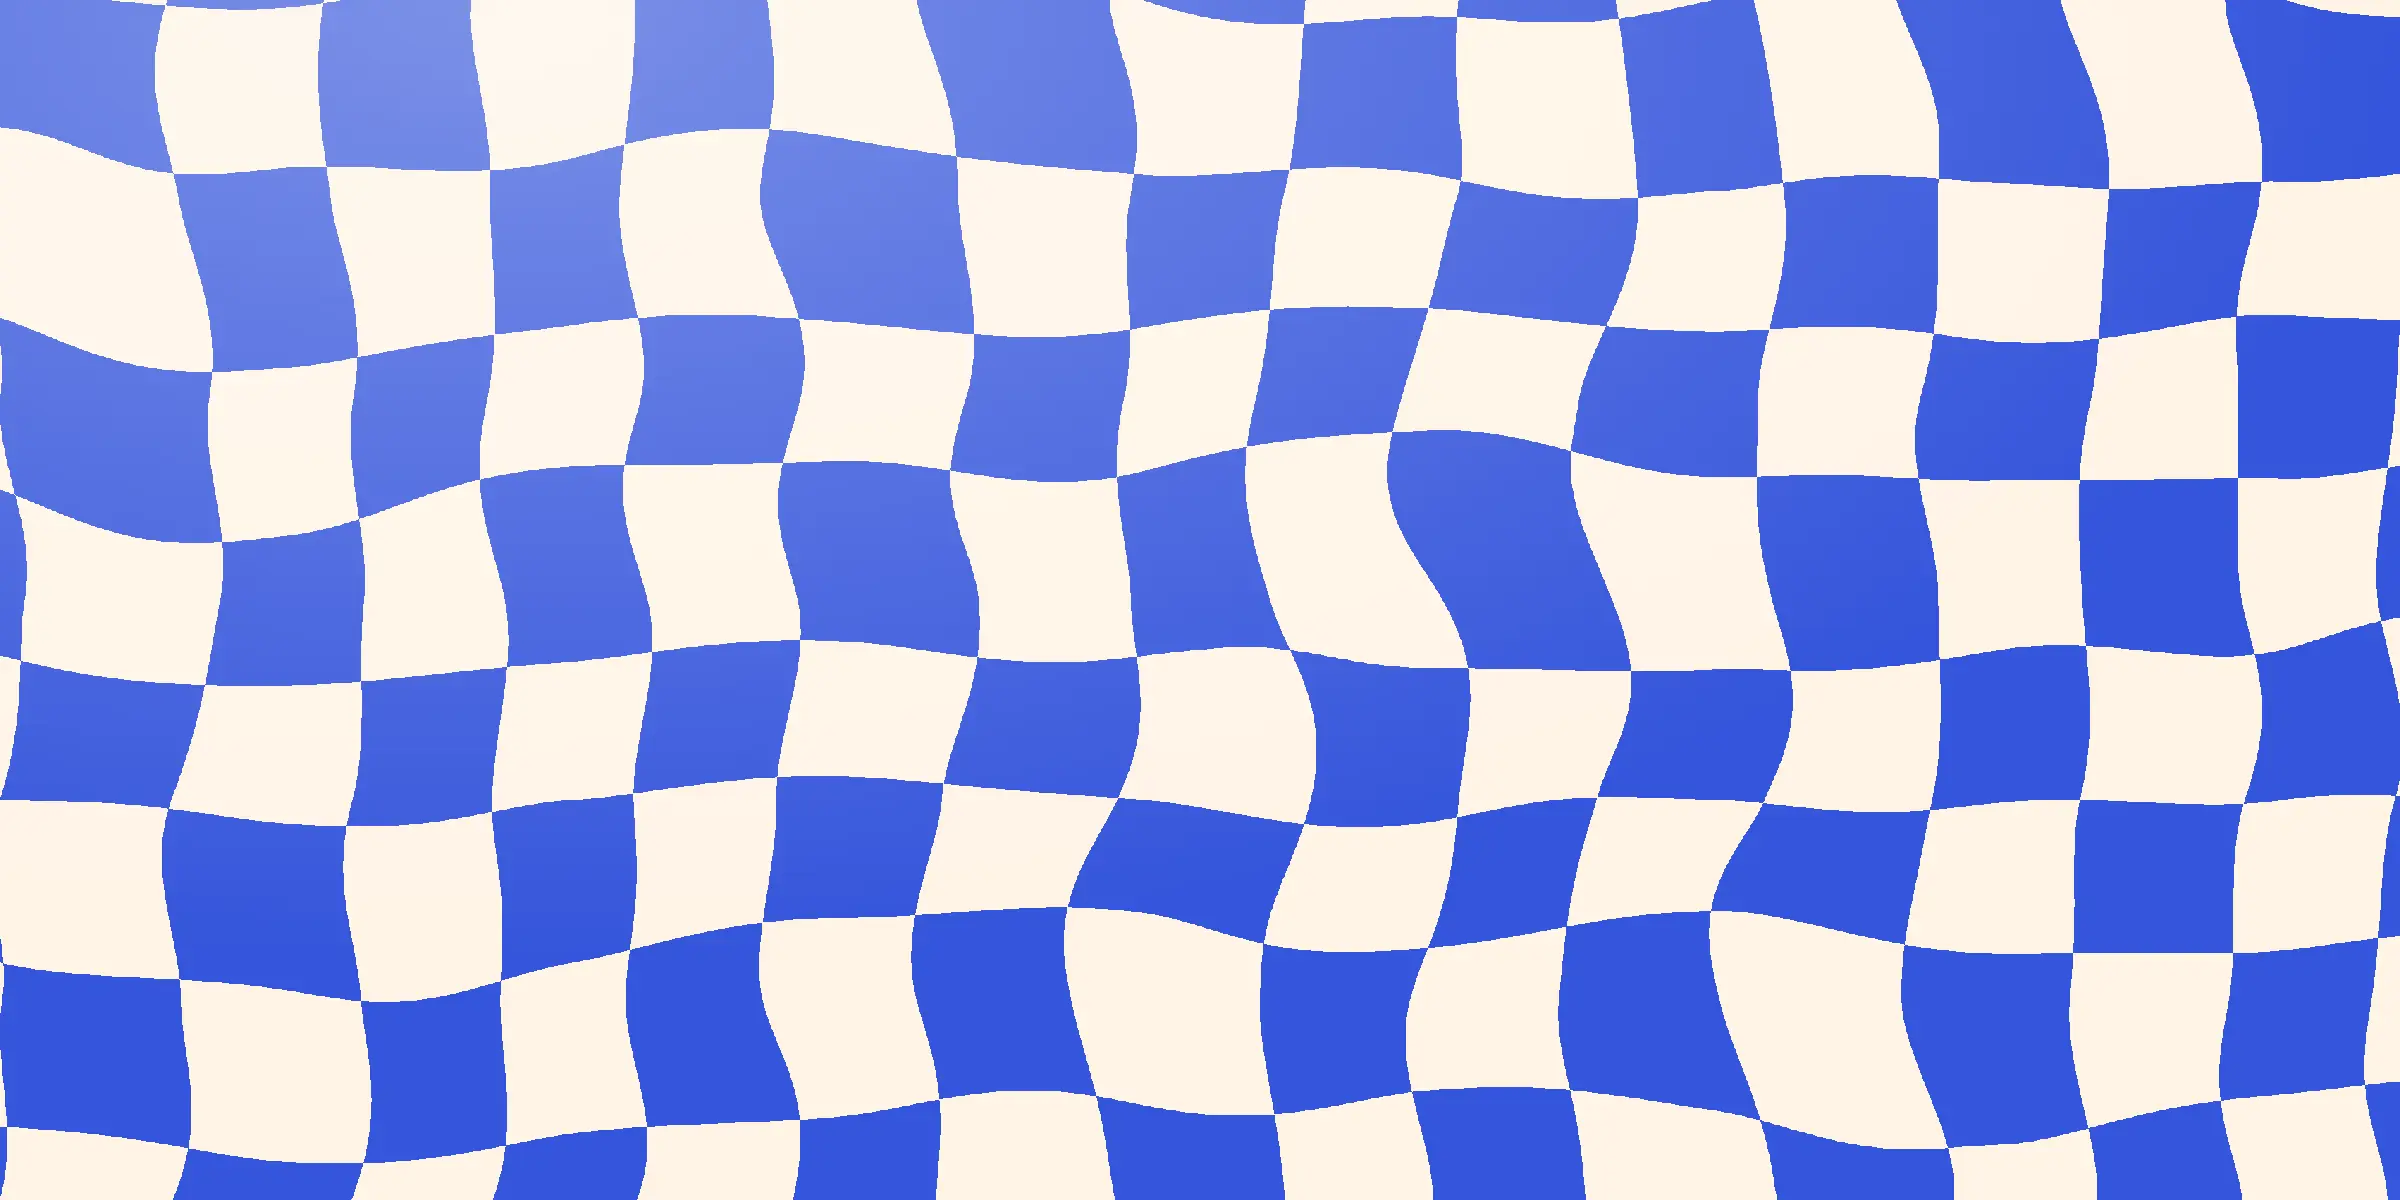
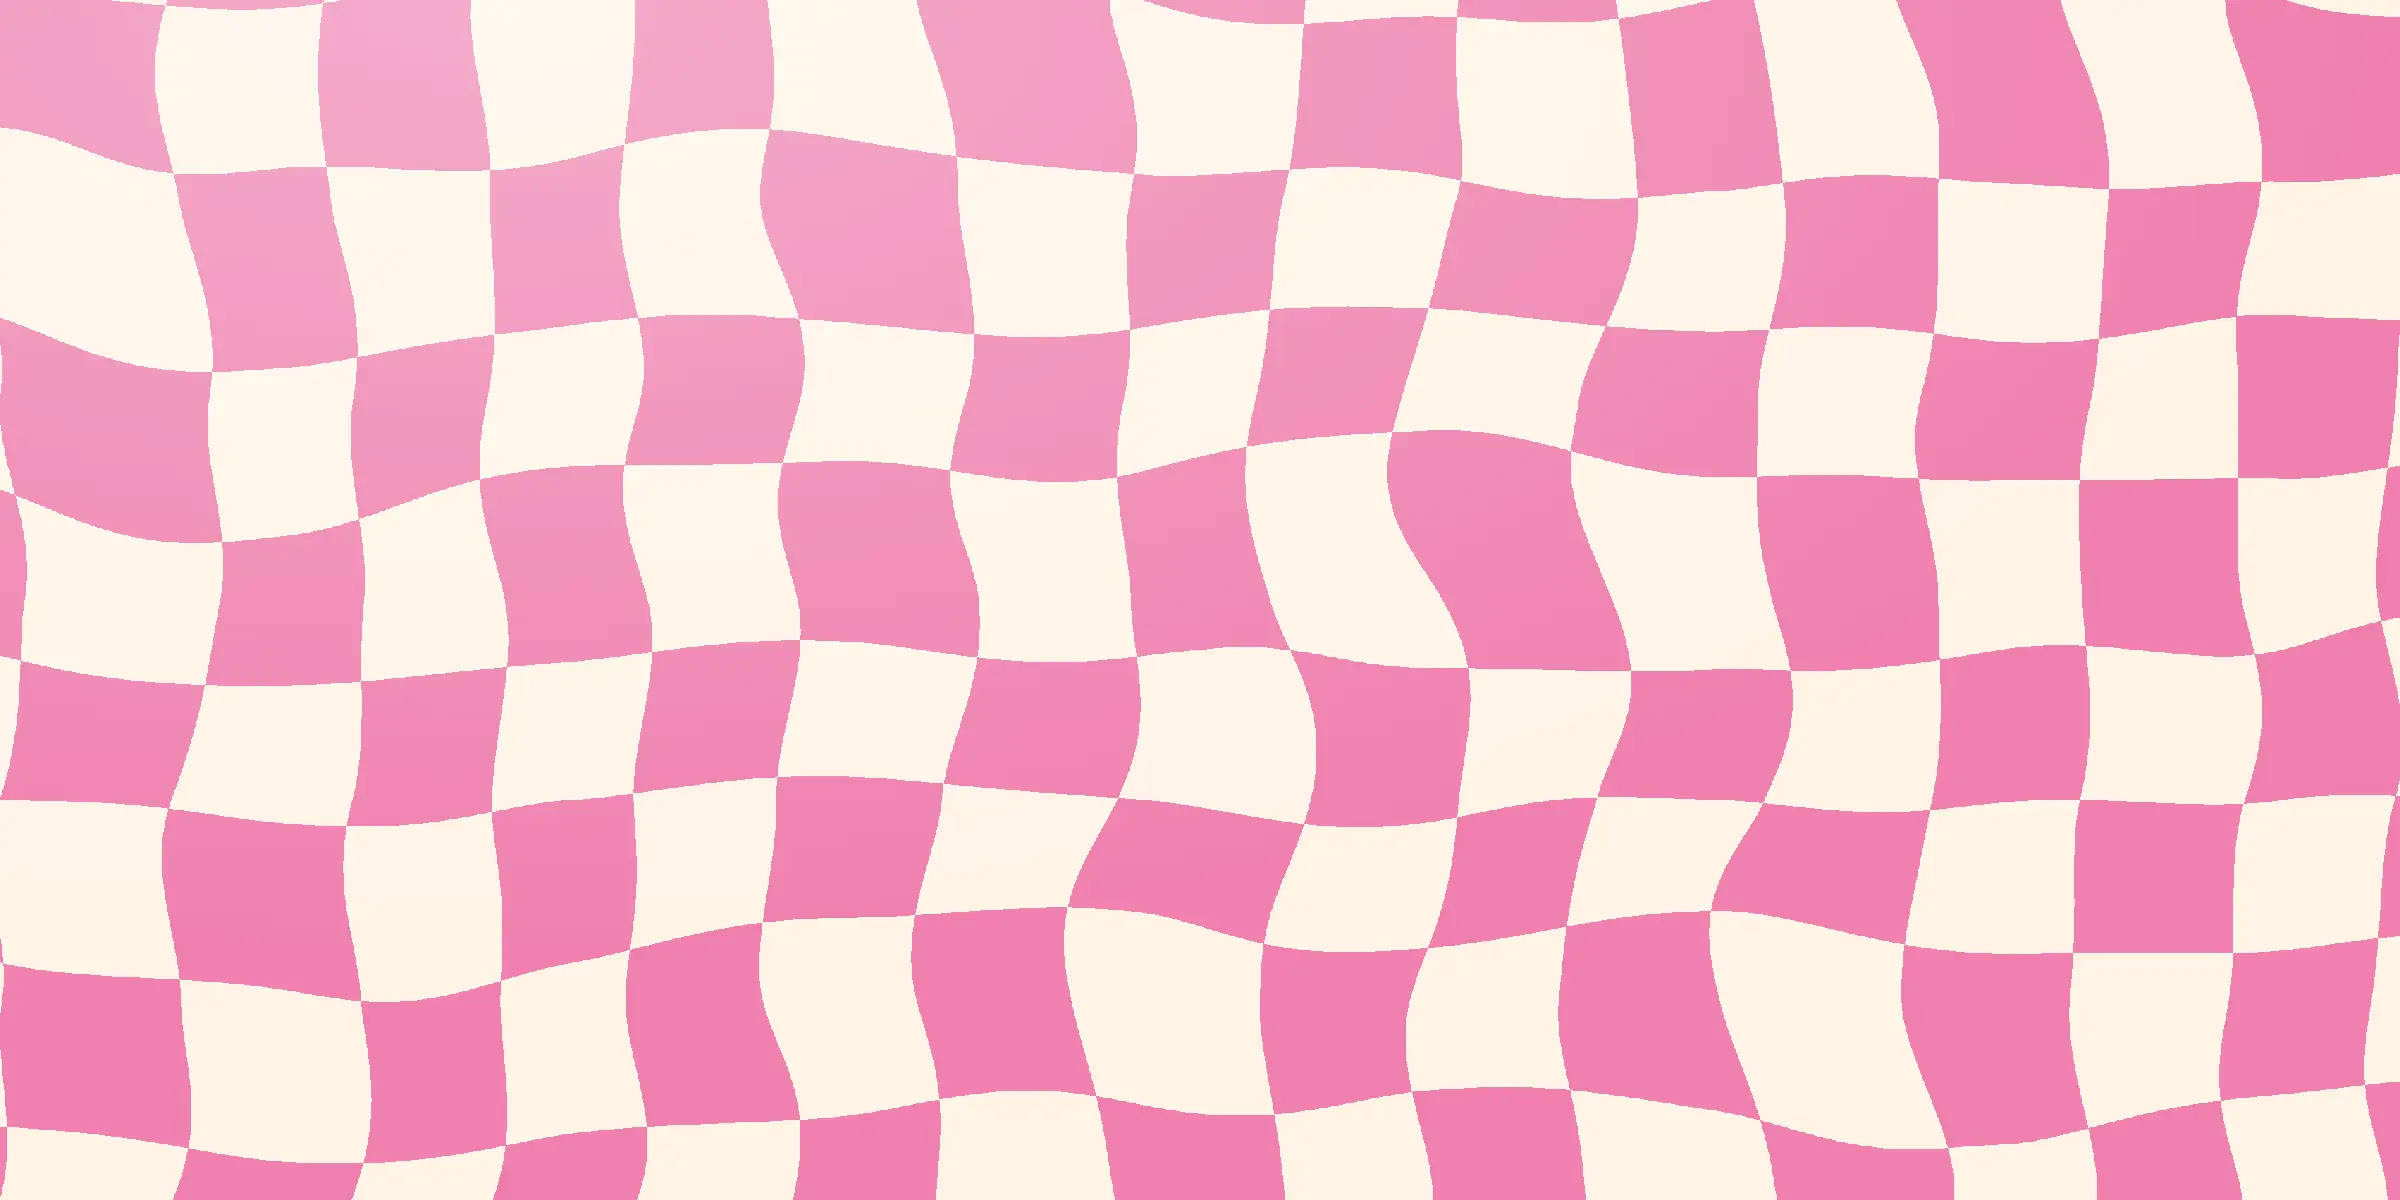
Pared rosa, cajas sólidas, ramo con follaje y vista previa para WhatsApp
- Pared de cuadros rosa y crema (elegida entre 4 opciones); el mostrador
  amarillo se mantiene. La franja verde del medio ahora es la cubierta de
  madera del mostrador.
- Cajas sólidas con tablas; ramilletes con tallos que entran en la caja.
- Ramo: tallos más gruesos con hojas y eucalipto de fondo.
- Exportar: carga con flor girando y botones que aparecen listos; en PC,
  vista previa al lado de los botones (sin scroll). Link en su propia
  línea en la imagen y en el texto al compartir.
- Open Graph (título, descripción e imagen 1200x630) para que WhatsApp y
  redes muestren una vista previa correcta del link.

diff --git a/src/app/globals.css b/src/app/globals.css
@@ -488,3 +488,74 @@ a { color: inherit; text-decoration: none; }
   .bunch, .crate, .badge { transition: transform .2s ease; }
   .item:hover .bunch, .item:hover .crate, .item:hover .badge { transform: translateY(-6px); }
 }
+
+/* =========================================================
+   v2 visual: paleta de fondo más armónica, cajas sólidas,
+   ramilletes con tallo, follaje en el ramo
+   ========================================================= */
+/* Cajas sólidas: tablas horizontales + ranuras, sin transparencias */
+.crate {
+  -webkit-mask: none; mask: none; border: 0; border-radius: 6px; height: 48px;
+  background:
+    linear-gradient(rgba(0, 0, 0, .18), rgba(0, 0, 0, .18)) top / 100% 5px no-repeat,
+    repeating-linear-gradient(180deg, transparent 0 13px, rgba(0, 0, 0, .16) 13px 15px),
+    repeating-linear-gradient(90deg, var(--c) 0 14px, color-mix(in srgb, var(--c) 78%, #000) 14px 16px);
+  box-shadow: inset 0 3px 0 rgba(255, 255, 255, .35), 0 5px 0 rgba(31, 26, 58, .15);
+}
+/* Ramillete: flores con tallos que entran en la caja */
+.bunch { width: 100px; height: 96px; margin-bottom: -34px; }
+.bunch-svg { position: absolute; inset: 0; width: 100%; height: 100%; }
+
+/* Tallos del ramo: más gruesos y con dos hojas */
+.stalk { left: -2.5px; width: 5px; background: linear-gradient(90deg, #3f8a35, #5aa646 60%, #3f8a35); }
+.stalk::after { width: 22px; height: 10px; top: 52%; }
+.stalk::before {
+  content: ""; position: absolute; right: 3px; top: 32%; width: 18px; height: 8px;
+  border-radius: 100% 0 100% 0; background: #4f9a3d; transform: rotate(25deg);
+}
+/* Follaje de eucalipto detrás de las flores */
+.sprig { position: absolute; left: 0; bottom: 0; width: 60px; transform: translateX(-50%) rotate(var(--a)); transform-origin: 50% 100%; z-index: 0; }
+
+/* ---------- Exportar: carga más clara ---------- */
+.share-wait { display: grid; place-items: center; gap: 12px; }
+.share-wait .spin { width: 54px; height: 54px; animation: spin 1.4s linear infinite; }
+@keyframes spin { to { transform: rotate(360deg); } }
+.share-preview.loading {
+  background: linear-gradient(110deg, rgba(255, 255, 255, .35) 30%, rgba(255, 255, 255, .75) 50%, rgba(255, 255, 255, .35) 70%) 0 0 / 300% 100%;
+  animation: shimmer 1.6s ease-in-out infinite;
+}
+@keyframes shimmer { from { background-position: 100% 0; } to { background-position: -100% 0; } }
+
+/* Tarjeta exportada: link en su propia línea */
+.sc-ticket { gap: 2px; }
+.sc-cta { font-size: 30px; font-weight: 500; }
+.sc-url { display: block; font-size: 40px; }
+/* Modal de exportar: en escritorio, vista previa a la izquierda y botones a la derecha (sin scroll) */
+@media (min-width: 900px) {
+  .share-modal { width: min(780px, 100%); }
+  .share-body { display: grid; grid-template-columns: minmax(0, 1fr) minmax(0, 1fr); gap: 24px; align-items: center; }
+  .share-body .share-preview { max-height: 62vh; width: 100%; margin: 0; }
+}
+.btn-skeleton {
+  display: block; height: 48px; border-radius: 999px;
+  background: linear-gradient(110deg, rgba(255, 255, 255, .35) 30%, rgba(255, 255, 255, .75) 50%, rgba(255, 255, 255, .35) 70%) 0 0 / 300% 100%;
+  animation: shimmer 1.6s ease-in-out infinite;
+}
+.share-actions .btn { animation: pop .3s ease-out; }
+
+/* Pared rosa (elegida en lugar del azul) */
+:root { --wall: #ef7fae; }
+.wall { background-color: var(--wall); }
+.sc-wall { background: conic-gradient(var(--wall) 25%, var(--cream) 0 50%, var(--wall) 0 75%, var(--cream) 0) 0 0 / 150px 150px; }
+
+/* La franja entre la pared y el mostrador ahora es la cubierta del mostrador
+   (madera clara vista en perspectiva) en lugar de azulejos verdes que no se entendían */
+.backsplash {
+  border-bottom: 12px solid #e0a64a;
+  background:
+    linear-gradient(180deg, rgba(120, 60, 20, .28), transparent 22px),      /* sombra de la pared sobre la mesa */
+    repeating-linear-gradient(90deg, transparent 0 140px, rgba(150, 90, 40, .10) 140px 142px), /* uniones de tablas */
+    repeating-linear-gradient(180deg, rgba(255, 255, 255, .0) 0 9px, rgba(190, 120, 50, .08) 9px 11px), /* veta */
+    linear-gradient(180deg, #f2cf96, #f7dcae);
+  box-shadow: 0 6px 0 rgba(31, 26, 58, .08);
+}

diff --git a/src/components/ShareModal.tsx b/src/components/ShareModal.tsx
@@ -3,6 +3,7 @@ import { useEffect, useRef, useState } from 'react';
 import { createPortal } from 'react-dom';
 import { canCopyImage, canShareFile, copyImage, download, fileFrom, renderPng, shareText } from '@/lib/share';
 import { Modal } from './Modal';
+import { FlowerHead } from './FlowerHead';
 import { ShareCard, type ShareData } from './ShareCard';
 
 type Status = 'idle' | 'working' | 'ready' | 'error';
@@ -70,21 +71,37 @@ export function ShareModal({ open, data, onClose }: { open: boolean; data: Share
       <h2 id="share-title">Exporta tu ramo</h2>
       <p className="sub">Guárdalo como imagen o compártelo donde quieras.</p>
 
-      <div className="share-preview">
-        {status === 'working' && <p className="share-wait">Preparando tu imagen…</p>}
+      <div className="share-body">
+      <div className={`share-preview ${status === 'working' ? 'loading' : ''}`}>
+        {status === 'working' && (
+          <div className="share-wait" role="status">
+            <FlowerHead id="margarita" className="spin" />
+            <span>Preparando tu imagen…</span>
+          </div>
+        )}
         {status === 'error' && <p className="share-wait">No pudimos crear la imagen. Intenta de nuevo.</p>}
         {status === 'ready' && preview && <img src={preview} alt="Vista previa de tu ramo" />}
       </div>
+      <div>
 
-      <div className="share-actions">
-        {nativeShare && <button className="btn wide send-btn" onClick={share} disabled={status !== 'ready'}>Compartir…</button>}
-        <button className={`btn wide ${nativeShare ? 'alt' : 'send-btn'}`} onClick={save} disabled={status !== 'ready'}>Descargar PNG</button>
-        <div className="share-row">
-          {copyOk && <button className="btn alt" onClick={copy} disabled={status !== 'ready'}>Copiar imagen</button>}
-          {!nativeShare && <button className="btn alt whatsapp" onClick={whatsapp} disabled={status !== 'ready'}>WhatsApp</button>}
+      {/* Los botones aparecen cuando ya sabemos qué soporta el dispositivo: así no "saltan" de color. */}
+      {status === 'ready' ? (
+        <div className="share-actions">
+          {nativeShare && <button className="btn wide send-btn" onClick={share}>Compartir…</button>}
+          <button className={`btn wide ${nativeShare ? 'alt' : 'send-btn'}`} onClick={save}>Descargar PNG</button>
+          <div className="share-row">
+            {copyOk && <button className="btn alt" onClick={copy}>Copiar imagen</button>}
+            {!nativeShare && <button className="btn alt whatsapp" onClick={whatsapp}>WhatsApp</button>}
+          </div>
         </div>
-      </div>
+      ) : (
+        <div className="share-actions" aria-hidden="true">
+          <span className="btn-skeleton" /><span className="btn-skeleton" /><span className="btn-skeleton" />
+        </div>
+      )}
       <p className="share-msg" role="status">{msg}</p>
+      </div>
+      </div>
 
       {open && data && createPortal(<ShareCard data={data} innerRef={cardRef} />, document.body)}
     </Modal>

diff --git a/src/components/Bouquet.tsx b/src/components/Bouquet.tsx
@@ -33,6 +33,24 @@ function StemView({ stem, i, isNew }: { stem: Omit<Stem, 'key'>; i: number; isNe
   );
 }
 
+// Follaje (eucalipto) detrás de las flores: el ramo se ve lleno aunque tenga 1 o 2 tallos.
+const SPRIGS = [
+  { a: -30, L: 250 }, { a: 26, L: 240 }, { a: -12, L: 272 }, { a: 38, L: 215 }, { a: 8, L: 262 }, { a: -40, L: 210 },
+];
+function Sprig({ a, L }: { a: number; L: number }) {
+  const leaves = [];
+  for (let t = 0.5, i = 0; t < 0.99; t += 0.075, i++) {
+    const y = L * (1 - t), side = i % 2 ? 1 : -1;
+    leaves.push(<ellipse key={i} cx={30 + side * 9} cy={y} rx={11 - t * 3} ry={8.5 - t * 2} fill={i % 3 ? '#6fa88d' : '#5b977b'} transform={`rotate(${side * 25} ${30 + side * 9} ${y})`} />);
+  }
+  return (
+    <svg className="sprig" style={{ '--a': `${a}deg`, height: L } as CSSProperties} viewBox={`0 0 60 ${L}`} aria-hidden="true">
+      <path d={`M30 ${L}Q27 ${L / 2} 30 6`} stroke="#4e8a6c" strokeWidth="3" fill="none" strokeLinecap="round" />
+      {leaves}
+    </svg>
+  );
+}
+
 export function NoteCard({ note }: { note: Note }) {
   return (
     <div className="note-card">
@@ -62,6 +80,7 @@ export function Bouquet({
         <path d="M18 34 140 0l122 26-110 152h-24Z" fill="#b39cf5" />
       </svg>
       <div className="stems">
+        {stems.length > 0 && SPRIGS.slice(0, Math.min(SPRIGS.length, 2 + Math.ceil(stems.length / 2))).map((s, i) => <Sprig key={i} {...s} />)}
         {stems.map((s, i) => <StemView key={s.key ?? i} stem={s} i={i} isNew={!!newestKey && s.key === newestKey} />)}
       </div>
       {note && <div className="tucked"><NoteCard note={note} /></div>}

diff --git a/src/app/layout.tsx b/src/app/layout.tsx
@@ -9,12 +9,26 @@ const body = DM_Sans({ subsets: ['latin'], weight: ['400', '500', '700'], variab
 const led = VT323({ weight: '400', subsets: ['latin'], variable: '--font-led', preload: false });
 const hand = Caveat({ subsets: ['latin'], weight: ['500'], variable: '--font-hand', preload: false });
 
+const DESCRIPTION = 'Elige tus flores, envuélvelas con un lazo, escribe una nota a mano y comparte tu ramo.';
+
+// Open Graph: lo que WhatsApp, Instagram, Facebook o X muestran al pegar el link.
+// La imagen 1200×630 está en src/app/opengraph-image.png (Next la enlaza sola).
 export const metadata: Metadata = {
+  metadataBase: new URL('https://ramo-lindo.vercel.app'),
   title: 'Ramo Lindo · arma tu ramo',
-  description: 'Florería interactiva: elige flores, envuélvelas con un lazo, escribe una nota a mano y envía tu ramo.',
+  description: DESCRIPTION,
+  openGraph: {
+    title: 'Ramo Lindo 💐 Arma tu ramo',
+    description: DESCRIPTION,
+    url: '/',
+    siteName: 'Ramo Lindo',
+    locale: 'es_CO',
+    type: 'website',
+  },
+  twitter: { card: 'summary_large_image', title: 'Ramo Lindo 💐 Arma tu ramo', description: DESCRIPTION },
 };
 
-export const viewport: Viewport = { width: 'device-width', initialScale: 1, themeColor: '#3455db' };
+export const viewport: Viewport = { width: 'device-width', initialScale: 1, themeColor: '#ef7fae' };
 
 export default function RootLayout({ children }: { children: React.ReactNode }) {
   return (

diff --git a/src/components/FlowerHead.tsx b/src/components/FlowerHead.tsx
@@ -101,6 +101,30 @@ export function FlowerHead({ id, className }: { id: FlowerId; className?: string
   );
 }
 
+// Ramillete de la caja: 5 flores con tallos que bajan hasta dentro de la caja.
+// [x, y, tamaño, giro] de cada cabeza dentro de un lienzo de 100×96.
+const BUNCH: [number, number, number, number][] = [
+  [20, 36, 40, -16], [80, 36, 40, 16], [36, 16, 42, -6], [64, 14, 42, 8], [50, 34, 44, 0],
+];
+const LAVENDER_BUNCH: [number, number, number, number][] = [
+  [22, 30, 50, -14], [78, 30, 50, 14], [38, 18, 56, -6], [62, 16, 56, 6], [50, 26, 58, 0],
+];
+
+export function Bunch({ id }: { id: FlowerId }) {
+  const spots = id === 'lavanda' ? LAVENDER_BUNCH : BUNCH;
+  return (
+    <svg className="bunch-svg" viewBox="0 0 100 96" aria-hidden="true" overflow="visible">
+      <g stroke="#3f8a35" strokeWidth="3.2" strokeLinecap="round" fill="none">
+        {spots.map(([x, y], i) => <path key={i} d={`M${x} ${y + 8} Q${(x + 50) / 2} ${y + 40} ${46 + i * 2} 96`} />)}
+      </g>
+      <path d="M30 70c-8-2-13-8-13-14 8 1 13 7 13 14zm40 0c8-2 13-8 13-14-8 1-13 7-13 14z" fill="#4f9a3d" />
+      {spots.map(([x, y, s, r], i) => (
+        <use key={i} href={`#fh-${id}`} x={x - s / 2} y={y - s / 2} width={s} height={s} transform={`rotate(${r} ${x} ${y})`} />
+      ))}
+    </svg>
+  );
+}
+
 export function FlowerSprite() {
   return (
     <svg width="0" height="0" style={{ position: 'absolute' }} aria-hidden="true" focusable="false">

diff --git a/src/components/Shop.tsx b/src/components/Shop.tsx
@@ -10,7 +10,7 @@ import {
 import { setMusic } from '@/lib/audio';
 import { getSupabase, hasSupabase } from '@/lib/supabase';
 import { saveOrder } from '@/lib/orders';
-import { FlowerHead } from './FlowerHead';
+import { Bunch, FlowerHead } from './FlowerHead';
 import { Bow } from './Bow';
 import { Bouquet } from './Bouquet';
 import { Register, MobileBar } from './Register';
@@ -216,7 +216,7 @@ export default function Shop() {
                 <button key={f.id} className="item" onClick={(e) => addStem(f.id, e.currentTarget.querySelector('.bunch') as HTMLElement)} aria-label={`Agregar ${f.name}, ${money(f.price)}`}>
                   {count > 0 && <span className="badge" key={count}>{count}</span>}
                   <span className="bunch" aria-hidden="true">
-                    {[0, 1, 2, 3, 4].map((k) => <FlowerHead key={k} id={f.id} className={`b b${k}`} />)}
+                    <Bunch id={f.id} />
                   </span>
                   <span className="crate" style={{ '--c': f.crate } as CSSProperties} />
                   <span className="tag" style={{ '--r': `${i % 2 ? 2 : -2}deg` } as CSSProperties}><b>{f.name}</b>{money(f.price)}</span>

diff --git a/src/lib/share.ts b/src/lib/share.ts
@@ -40,5 +40,10 @@ export async function copyImage(blob: Blob) {
   await navigator.clipboard.write([new ClipboardItem({ 'image/png': blob })]);
 }
 
+// Texto que acompaña la imagen: el link va solo en su propia línea para que WhatsApp
+// lo detecte bien y muestre la vista previa de la web.
 export const shareText = (recipient: string) =>
-  `${recipient ? `Un ramo para ${recipient} 💐` : 'Mira el ramo que armé 💐'} · Arma el tuyo en ${SITE_URL}`;
+  `${recipient ? `Un ramo para ${recipient} 💐` : 'Mira el ramo que armé 💐'}
+
+Arma el tuyo aquí:
+${SITE_URL}`;

diff --git a/src/components/ShareCard.tsx b/src/components/ShareCard.tsx
@@ -32,7 +32,8 @@ export function ShareCard({ data, innerRef }: { data: ShareData; innerRef: Ref<H
         </div>
         <div className="sc-ticket">
           <span className="sc-details">{details}</span>
-          <span className="sc-url">Arma el tuyo en ramo-lindo.vercel.app</span>
+          <span className="sc-cta">Arma el tuyo en</span>
+          <span className="sc-url">ramo-lindo.vercel.app</span>
         </div>
       </div>
       </InlineFlowers.Provider>

diff --git a/src/components/Wall.tsx b/src/components/Wall.tsx
@@ -1,7 +1,7 @@
 // Pared de cuadros ondulados.
 // Rendimiento: antes era un filtro SVG (feTurbulence + feDisplacementMap) calculado en
 // vivo, lo que costaba segundos de CPU en celulares. Ahora es una imagen pre-renderizada
-// (public/wall.webp, 63 KB) generada a partir del mismo SVG.
+// (public/wall.webp, ~46 KB, cuadros rosa y crema) generada a partir del mismo SVG.
 export function Wall() {
   return <div className="wall" aria-hidden="true" />;
 }
